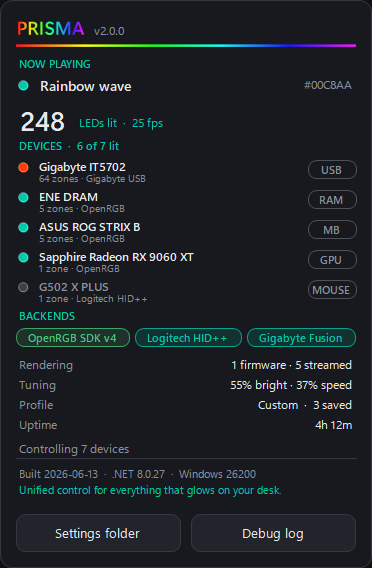
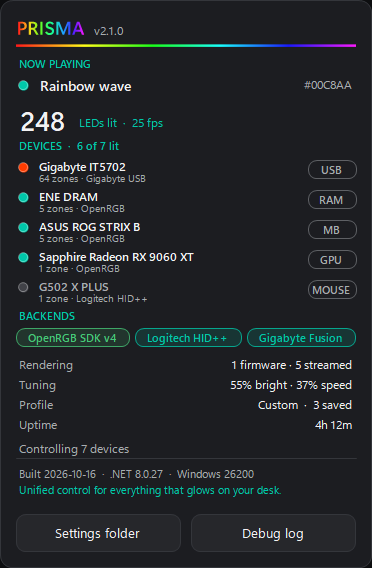
Website: 2.1.0, pictures of the redesigned main window
- img/main.png (now 920x800): the new title strip, rail and content card, rendered by the
  built-in harness (--test-main) with its sample devices and demo profiles; the hero caption
  no longer says "a real PC", and the frame is 922 px so the picture shows at 1:1.
- img/about.png, img/menu.png (now 226x198), img/picker.png re-rendered by 2.1.0 (About header
  v2.1.0); og.png: the same social card with the About panel's v2.1.0.
- About now opens from the logo, not the rainbow title.
- Baked version and latest update: v2.1.0 · 16 Oct 2026 (what site.js shows from the API).

diff --git a/site/index.html b/site/index.html
@@ -35,7 +35,7 @@
 <p>One app for every light in your PC. Motherboard, RAM, GPU, fan strips, keyboard and mouse, driven from a single frame loop so they all move in step. No vendor suites, no cloud, no account.</p>
 <div class="get">
 <a class="btn" href="https://github.com/Erik1028/Prisma/releases/latest/download/Prisma.exe" data-asset="^Prisma\.exe$"><svg width="18" height="18" viewBox="0 0 24 24" fill="none" stroke="currentColor" stroke-width="2.6" stroke-linecap="round" stroke-linejoin="round" aria-hidden="true"><path d="M12 3v12M6 10l6 6 6-6M4 21h16"/></svg>Download Prisma.exe<span class="size"> (155 MB)</span></a>
-<span class="mono" id="ver">v2.0.0 · 21 Sept 2026</span>
+<span class="mono" id="ver">v2.1.0 · 16 Oct 2026</span>
 <span class="alt">For Windows 10 and 11. Or the <a href="https://github.com/Erik1028/Prisma/releases/latest" data-asset="win-x64\.zip$">small zip<span class="size"> (0.4 MB)</span></a>, which needs the <a href="https://dotnet.microsoft.com/download/dotnet/8.0">.NET 8 Desktop Runtime</a>.</span>
 </div>
 </div>
@@ -59,13 +59,13 @@
 
 <main class="wrap">
 
-<figure class="hero-shot app-shot" style="margin:0"><div class="shot"><img src="img/main.png" width="914" height="801" alt="Prisma's main window: four devices ticked on the left (a fan and strip controller, a graphics card, four RAM sticks and a motherboard), the twelve effects, colour swatches with a hue slider, and brightness"></div><figcaption>Prisma 2.0 running on a real PC: a Gigabyte fan controller, a Radeon card, four RAM sticks and an ASUS board, all on one effect.</figcaption></figure>
+<figure class="hero-shot app-shot" style="margin:0"><div class="shot"><img src="img/main.png" width="920" height="800" alt="Prisma's main window: a title strip with the power button and a card saying Rainbow wave is lighting 7 devices; on the left four devices ticked (a fan and strip controller, a graphics card, four RAM sticks and a motherboard) and four profiles with Gaming applied; on the right the twelve effects, colour swatches, a live preview, and speed and brightness"></div><figcaption>Prisma 2.1 in its built-in preview, with sample devices: a Gigabyte fan controller, a Radeon card, four RAM sticks and an ASUS board, all on one effect.</figcaption></figure>
 
 <section class="block" id="features">
 <h2>What it does</h2>
 <div class="cards" data-stagger="110">
-<article class="card"><a class="shot tall" href="img/about.png"><img src="img/about.png" width="372" height="568" alt="Prisma's info panel: the current effect, 248 LEDs lit at 25 fps, five devices with their backends, and the render mode" loading="lazy"></a><h3>Everything at a glance</h3><p>Click the rainbow title for what's playing, how many LEDs are lit, which devices and backends are in use, and how each one is driven.</p></article>
-<article class="card"><a class="shot tall" href="img/menu.png"><img src="img/menu.png" width="277" height="220" alt="The right-click menu of a graphics card: turn off, set colour, use as colour target, identify, effect, reset to global" loading="lazy"></a><h3>One device, its own look</h3><p>Right-click any device for its own colour or effect. Identify blinks it so you know which one it is; Reset brings it back to the global look.</p></article>
+<article class="card"><a class="shot tall" href="img/about.png"><img src="img/about.png" width="372" height="568" alt="Prisma's info panel: the current effect, 248 LEDs lit at 25 fps, five devices with their backends, and the render mode" loading="lazy"></a><h3>Everything at a glance</h3><p>Click the Prisma logo for what's playing, how many LEDs are lit, which devices and backends are in use, and how each one is driven.</p></article>
+<article class="card"><a class="shot tall" href="img/menu.png"><img src="img/menu.png" width="226" height="198" alt="The right-click menu of a graphics card: turn off, set colour, use as colour target, identify, effect, reset to global" loading="lazy"></a><h3>One device, its own look</h3><p>Right-click any device for its own colour or effect. Identify blinks it so you know which one it is; Reset brings it back to the global look.</p></article>
 <article class="card"><a class="shot tall" href="img/picker.png"><img src="img/picker.png" width="314" height="478" alt="Prisma's colour picker: a hue ring, a saturation square, a hex field and quick swatches" loading="lazy"></a><h3>Any colour</h3><p>A colour wheel with a hex field and quick swatches. Colours you use are kept as swatches in the main window.</p></article>
 </div>
 <p class="cap" data-reveal>The pictures come from Prisma's built-in preview windows, filled with sample devices.</p>
@@ -151,7 +151,7 @@
 
 <section class="block" data-reveal>
 <h2>Latest update</h2>
-<div class="latest" id="latest"><span class="v">v2.0.0</span><div><h3>Unified Windows RGB control</h3><p>One app for the motherboard, RAM, GPU, fan strips, keyboard and mouse — driven from a single 25 fps frame loop so everything actually animates in step. No vendor suite, no cloud, no telemetry, no account.</p><p><a href="https://github.com/Erik1028/Prisma/releases/tag/v2.0.0">Release notes</a> · 21 Sept 2026</p></div></div>
+<div class="latest" id="latest"><span class="v">v2.1.0</span><div><h3>Redesigned main window</h3><p>A redesigned main window.</p><p><a href="https://github.com/Erik1028/Prisma/releases/tag/v2.1.0">Release notes</a> · 16 Oct 2026</p></div></div>
 </section>
 
 </main>

diff --git a/site/style.css b/site/style.css
@@ -137,8 +137,8 @@ footer p{max-width:42em}
 }
 
 main > .hero-shot{margin-top:40px!important}
-/* the main window at its own size (a real capture, 914 px): centred rather than stretched */
-.hero-shot.app-shot{max-width:914px;margin-inline:auto!important}
+/* the main window at its own size (920 px, plus the 1 px frame on each side): centred rather than stretched */
+.hero-shot.app-shot{max-width:922px;margin-inline:auto!important}
 .card .shot.tall{aspect-ratio:auto;height:360px;display:flex;cursor:zoom-in;align-items:center;justify-content:center;background:radial-gradient(circle at 50% 40%,#1b1e24,#121317)}
 .card .shot.tall img{width:auto;height:auto;max-height:330px;max-width:92%;object-fit:contain;border-radius:8px;box-shadow:0 18px 40px rgba(0,0,0,.45)}
 .cap{margin-top:18px}
